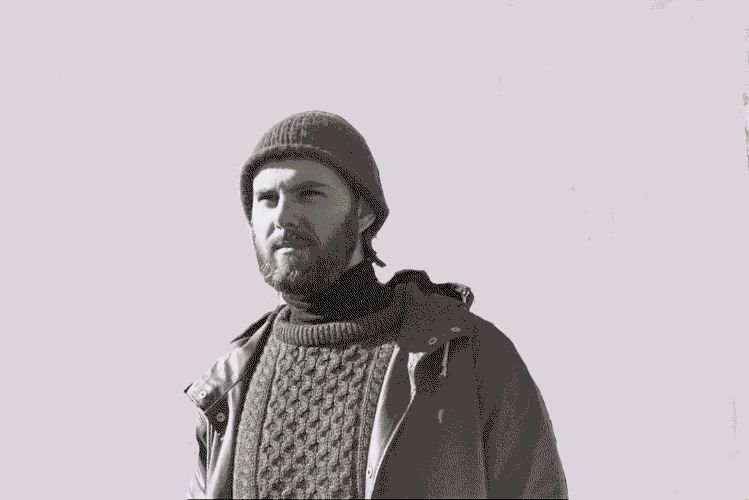
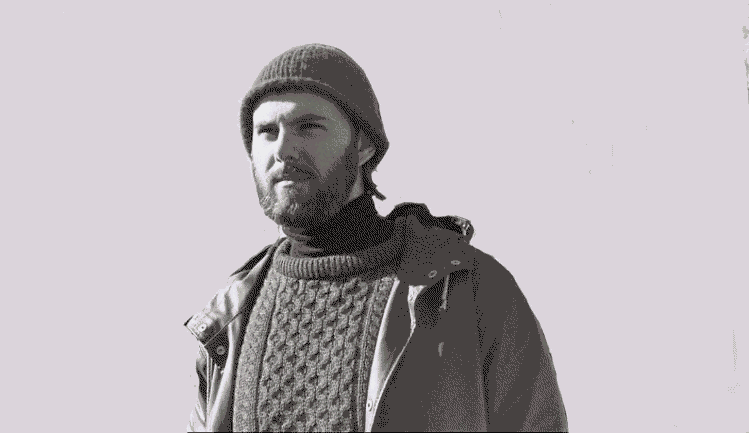
cropped about picture, tweaked bio

diff --git a/about/index.html b/about/index.html
@@ -137,7 +137,7 @@
               <img src="/imgs/about.jpg" alt="About" style="max-width: 100%; height: auto;">
           </div>
           <div style="font-size:16px; line-height: 1.6; margin-top: 25px;">
-              <p>Mícheál Keating is a media artist and musician from Limerick, Ireland. His artistic practice spans sonic improvisation and composition, field recording, writing, software programming, lens-based and found digital media. He synthesises these modes in evocative work that elucidates processes of change in rural Irish landscape, and examines relations between human life, technology, capitalism, and land.</p>
+              <p>Mícheál Keating is a media artist and musician from Limerick, Ireland. His practice spans sonic improvisation, musical composition, field recording, writing, software programming, lens-based and found digital media. He synthesises these modes in evocative work that elucidates processes of change in rural Limerick landscape, and examines relations between human life, technology, capitalism, and land.</p>
 <p>As a musician he has released 2 critically acclaimed LPs as singer/songwriter/producer of the art-rock band <em>Bleeding Heart Pigeons</em> (2008-2020), and he currently performs with improvised noise collective <em>Péist</em>, post-rock band <em>The Low Field</em> and singer/songwriter <em>Laura Duff</em>. He is also active as a freelance music producer, media art tech, and festival organiser with <em>Féile na Gréine</em>.</p>
 <p><a href="/micheal-artist-site/cv.pdf">Download CV</a></p>
 <p>Contact: michealkeating at protonmail dot com</p>
